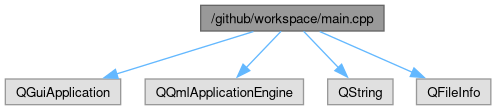
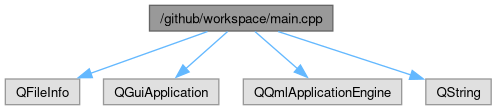
deploy: 94989891266925951fa8f94624557f5d10ee8d84

diff --git a/main_8cpp.html b/main_8cpp.html
@@ -90,24 +90,24 @@ $(function(){ initResizable(false); });
   <div class="headertitle"><div class="title">/github/workspace/main.cpp File Reference</div></div>
 </div><!--header-->
 <div class="contents">
-<div class="textblock"><code>#include &lt;QGuiApplication&gt;</code><br />
+<div class="textblock"><code>#include &lt;QFileInfo&gt;</code><br />
+<code>#include &lt;QGuiApplication&gt;</code><br />
 <code>#include &lt;QQmlApplicationEngine&gt;</code><br />
 <code>#include &lt;QString&gt;</code><br />
-<code>#include &lt;QFileInfo&gt;</code><br />
 </div><div class="textblock"><div class="dynheader">
 Include dependency graph for main.cpp:</div>
 <div class="dyncontent">
 <div class="center"><img src="main_8cpp__incl.png" border="0" usemap="#a_2github_2workspace_2main_8cpp" alt=""/></div>
 <map name="a_2github_2workspace_2main_8cpp" id="a_2github_2workspace_2main_8cpp">
-<area shape="rect" title=" " alt="" coords="201,5,384,31"/>
-<area shape="rect" title=" " alt="" coords="5,79,121,105"/>
-<area shape="poly" title=" " alt="" coords="254,34,117,77,115,71,253,29"/>
-<area shape="rect" title=" " alt="" coords="145,79,304,105"/>
-<area shape="poly" title=" " alt="" coords="283,33,248,70,244,66,279,29"/>
-<area shape="rect" title=" " alt="" coords="328,79,393,105"/>
-<area shape="poly" title=" " alt="" coords="305,29,341,66,337,70,302,33"/>
-<area shape="rect" title=" " alt="" coords="416,79,491,105"/>
-<area shape="poly" title=" " alt="" coords="321,29,413,70,411,75,319,34"/>
+<area shape="rect" title=" " alt="" coords="150,5,333,31"/>
+<area shape="rect" title=" " alt="" coords="5,79,80,105"/>
+<area shape="poly" title=" " alt="" coords="208,34,91,76,90,71,207,29"/>
+<area shape="rect" title=" " alt="" coords="104,79,219,105"/>
+<area shape="poly" title=" " alt="" coords="229,34,187,71,184,67,226,30"/>
+<area shape="rect" title=" " alt="" coords="243,79,402,105"/>
+<area shape="poly" title=" " alt="" coords="257,30,299,67,296,71,253,34"/>
+<area shape="rect" title=" " alt="" coords="426,79,491,105"/>
+<area shape="poly" title=" " alt="" coords="279,29,412,72,410,77,277,34"/>
 </map>
 </div>
 </div><table class="memberdecls">
@@ -140,12 +140,12 @@ Functions</h2></td></tr>
 <div class="line"><span class="lineno">   10</span>    QQmlApplicationEngine engine;</div>
 <div class="line"><span class="lineno">   11</span> </div>
 <div class="line"><span class="lineno">   12</span>    <span class="keyword">const</span> QUrl url(QStringLiteral(<span class="stringliteral">&quot;qrc:/main.qml&quot;</span>));</div>
-<div class="line"><span class="lineno">   13</span>    QObject::connect(&amp;engine, &amp;QQmlApplicationEngine::objectCreated,</div>
-<div class="line"><span class="lineno">   14</span>                     &amp;app,</div>
-<div class="line"><span class="lineno">   15</span>                     [url](<span class="keyword">const</span> QObject *obj, <span class="keyword">const</span> QUrl &amp;objUrl) {</div>
-<div class="line"><span class="lineno">   16</span>        <span class="keywordflow">if</span> (!obj &amp;&amp; url == objUrl)</div>
-<div class="line"><span class="lineno">   17</span>            QCoreApplication::exit(-1);</div>
-<div class="line"><span class="lineno">   18</span>    }, Qt::QueuedConnection);</div>
+<div class="line"><span class="lineno">   13</span>    QObject::connect(</div>
+<div class="line"><span class="lineno">   14</span>        &amp;engine, &amp;QQmlApplicationEngine::objectCreated, &amp;app,</div>
+<div class="line"><span class="lineno">   15</span>        [url](<span class="keyword">const</span> QObject *obj, <span class="keyword">const</span> QUrl &amp;objUrl) {</div>
+<div class="line"><span class="lineno">   16</span>            <span class="keywordflow">if</span> (!obj &amp;&amp; url == objUrl) QCoreApplication::exit(-1);</div>
+<div class="line"><span class="lineno">   17</span>        },</div>
+<div class="line"><span class="lineno">   18</span>        Qt::QueuedConnection);</div>
 <div class="line"><span class="lineno">   19</span> </div>
 <div class="line"><span class="lineno">   20</span>    engine.load(url);</div>
 <div class="line"><span class="lineno">   21</span>    <span class="keywordflow">return</span> app.exec();</div>
